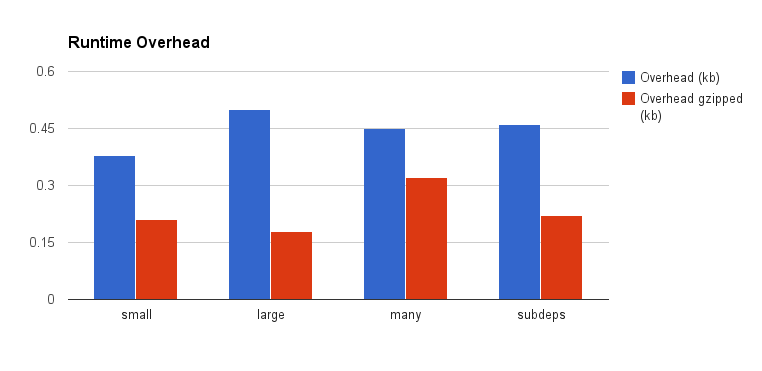
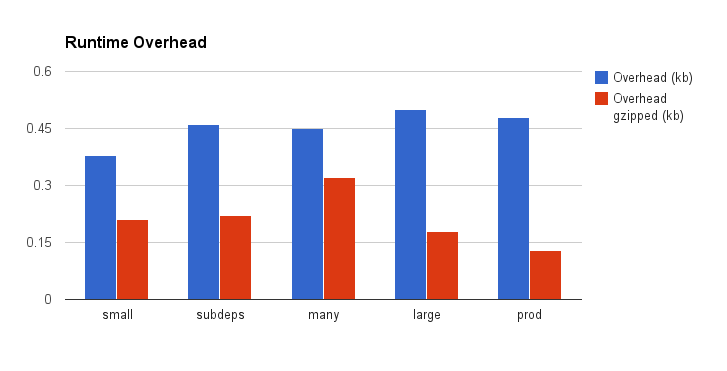
Adds a "near prod" module

diff --git a/gulpfile.js b/gulpfile.js
@@ -10,7 +10,7 @@ var rimraf = require('rimraf');
 
 
 // Concatenate and uglify all the files with no modification
-gulp.task('uglify:original', ['uglify:small', 'uglify:large', 'uglify:many', 'uglify:subdeps']);
+gulp.task('uglify:original', ['uglify:small', 'uglify:large', 'uglify:many', 'uglify:subdeps', 'uglify:prod']);
 
 gulp.task('uglify:small', function() {
     return gulp.src('./src/small/*.js')
@@ -80,6 +80,28 @@ gulp.task('uglify:subdeps', function() {
         .pipe(gulp.dest('./build/subdeps/'));
 });
 
+gulp.task('uglify:prod', function() {
+    return gulp.src([
+            './node_modules/jquery/dist/jquery.js',
+            './node_modules/backbone/node_modules/underscore/underscore.js',
+            './node_modules/backbone/backbone.js',
+            './src/prod/*.js'
+        ])
+        .pipe(sourcemaps.init({loadMaps: true}))
+        .pipe(concat('prod.min.js'))
+        .pipe(uglify())
+        .pipe(sourcemaps.write('./'))
+        .pipe(size({
+            showFiles: true,
+            gzip: false
+        }))
+        .pipe(size({
+            showFiles: true,
+            gzip: true
+        }))
+        .pipe(gulp.dest('./build/prod/'));
+});
+
 
 // Clean task
 gulp.task('clean', function(cb) {
@@ -88,7 +110,7 @@ gulp.task('clean', function(cb) {
 
 
 // Browserify all bundles
-gulp.task('browserify', ['browserify:small', 'browserify:large', 'browserify:many', 'browserify:subdeps']);
+gulp.task('browserify', ['browserify:small', 'browserify:large', 'browserify:many', 'browserify:subdeps', 'browserify:prod']);
 
 // Browserify "small" bundle
 gulp.task('browserify:small', function() {
@@ -180,6 +202,29 @@ gulp.task('browserify:subdeps', function() {
             gzip: true
         }))
         .pipe(gulp.dest('./build/subdeps/'));
+});
+
+// Browserify "prod" bundle
+gulp.task('browserify:prod', function() {
+    return browserify({
+        entries: ['./src/prod/entry.js'],
+        debug: true
+    })
+        .bundle()
+        .pipe(source('prod-bundle.js'))
+        .pipe(buffer())
+        .pipe(sourcemaps.init({loadMaps: true}))
+        .pipe(uglify())
+        .pipe(sourcemaps.write('./'))
+        .pipe(size({
+            showFiles: true,
+            gzip: false
+        }))
+        .pipe(size({
+            showFiles: true,
+            gzip: true
+        }))
+        .pipe(gulp.dest('./build/prod/'));
 });
 
 // Runs all tasks

diff --git a/src/prod/submodule.js b/src/prod/submodule.js
@@ -1,0 +1,13 @@
+var Backbone = require('backbone');
+var $ = require('jquery');
+Backbone.$ = $;
+
+module.exports = Backbone.View.extend({
+    initialize: function(){
+        this.render();
+    },
+
+    render: function() {
+        $('body').prepend('<p>' + navigator.userAgent + '</p>');
+    }
+});

diff --git a/src/prod/entry.js b/src/prod/entry.js
@@ -1,0 +1,3 @@
+var AppView = require('./submodule');
+
+var appView = new AppView();

diff --git a/README.md b/README.md
@@ -2,12 +2,14 @@
 
 ## The process
 
-Has been prepared the next four scenarios:
+Has been prepared the next five scenarios:
 
 * small - tiny main module with a single submodule and minimal functional content
-* large - single main module that requires `lodash` for it's functionality
-* many - single main module that requires many small submodules
 * subdeps - main module has a single dependency that requires two additional submodules
+* many - single main module that requires many small submodules
+* large - single main module that requires `lodash` for it's functionality
+* prod - near production, main module requires `jQuery` and `Backbone` which has
+        additional dependency on `underscore`
 
 Original files were minified using `uglify-js` per scenario, for every
 minified file has been generated source map and referenced in a resulting file.
@@ -99,14 +101,28 @@ predicable result all ones like this were removed in prior to an original.
 | Scenario | Original size (kb) | Original size gzipped (kb) | Bundled size (kb) | Bundled size gzipped (kb) | Overhead (kb) | Overhead gzipped (kb) |
 | -------- | -----------------: | -------------------------: | ----------------: | ------------------------: | ------------: | --------------------: |
 | small    | 0.44               | 0.29                       | 0.82              | 0.5                       | 0.38          | 0.21                  |
-| large    | 49.1               | 17.52                      | 49.6              | 17.7                      | 0.5           | 0.18                  |
-| many     | 1.85               | 0.38                       | 2.3               | 0.7                       | 0.45          | 0.32                  |
 | subdeps  | 0.73               | 0.36                       | 1.19              | 0.58                      | 0.46          | 0.22                  |
+| many     | 1.85               | 0.38                       | 2.3               | 0.7                       | 0.45          | 0.32                  |
+| large    | 49.1               | 17.52                      | 49.6              | 17.7                      | 0.5           | 0.18                  |
+| prod     | 120.01             | 41.22                      | 120.49            | 41.35                     | 0.48          | 0.13                  |
 
 
 ### Resulting overhead chart
 
 ![Runtime overhead chart](https://raw.github.com/atma/browserify-overhead/master/overhead-chart.png)
+
+### Overhead percentage
+
+Overhead has almost fixed size and in a huge bundles should be insignificant.
+Below is a table of overhead size relative to an original size.
+
+| Scenario | Overhead (%)  | Overhead gzipped (%)  |
+| -------- | ------------: | --------------------: |
+| small    | 86.36         | 72.41                 |
+| subdeps  | 63.01         | 61.11                 |
+| many     | 24.32         | 84.21                 |
+| large    | 1.02          | 1.03                  |
+| prod     | 0.40          | 0.32                  |
 
 
 ## Conclusion
